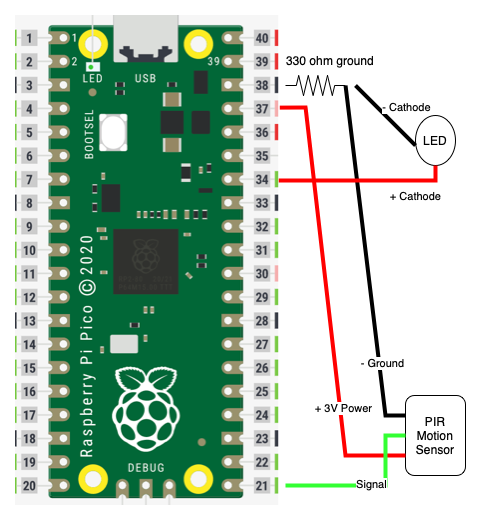
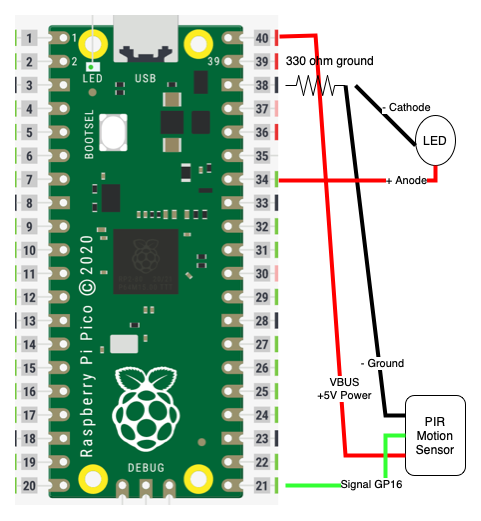
Correcting pin diagram and setting the correct voltage to PIR Motion sensor

Changed region(s): [[0.5613, 0.0614, 0.7796, 0.8292], [0.8108, 0.3378, 0.9356, 0.3992], [0.6861, 0.9213, 0.842, 0.952]]

diff --git a/main.py b/main.py
@@ -2,17 +2,16 @@ from machine import Pin
 import utime
 
 led = Pin(28, Pin.OUT)
-pir = Pin(16, Pin.IN, Pin.PULL_UP)
+pir = Pin(16, Pin.IN, Pin.PULL_DOWN)  # Default to low voltage
 led.low()
 utime.sleep(3)
 
 while True:
-    # Ideally this should be checking for 0 but the sensor I had didnt give a good voltage
+    # Voltage is high when motion i.e. 1 is detected
     if pir.value() == 1:
         print('Motion Detected!')
         led.high()
         utime.sleep(2)
     else:
-        print('Waiting for movement...')
         led.low()
         utime.sleep(0.2)

diff --git a/README.md b/README.md
@@ -25,6 +25,16 @@ Follow the pin diagram and complete the setup. After completing your setup conne
 Raspberry Pi Pico to your laptop/computer using a USB-C cable and run the main.py program.
 
 
+## Shutdown constantly running program
+
+When you plugin your Raspberry Pi Pico to a power source main.py will start running. To stop 
+this program from continuously running press the BOOTSEL button and plugin the USB-C so that the 
+Raspberry Pi Pico appears as a drive. Now go to the drive and copy the flash_nuke.uf2 file to 
+clear old contents.
+
+[Flash Nuke UF2 File](https://datasheets.raspberrypi.com/soft/flash_nuke.uf2)
+
+
 
 
 
